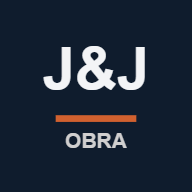
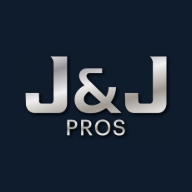
Add files via upload

Changed region(s): [[0.125, 0.2188, 0.875, 0.7812]]

diff --git a/index.html b/index.html
@@ -3,25 +3,25 @@
 <head>
 <meta charset="utf-8">
 <meta name="viewport" content="width=device-width,initial-scale=1,viewport-fit=cover">
-<title>J&amp;J Obra</title>
+<title>J&amp;J Pros</title>
 <link rel="manifest" href="manifest.webmanifest">
 <link rel="apple-touch-icon" href="apple-touch-icon.png">
 <meta name="apple-mobile-web-app-capable" content="yes">
 <meta name="mobile-web-app-capable" content="yes">
 <meta name="apple-mobile-web-app-status-bar-style" content="black-translucent">
-<meta name="apple-mobile-web-app-title" content="J&amp;J Obra">
+<meta name="apple-mobile-web-app-title" content="J&amp;J Pros">
 <meta name="theme-color" content="#0F1C2D">
 <style>
 :root{
   --paper:#F1F2F4;--card:#FFF;--field:#FFF;--ink:#0F1C2D;--ink-2:#46556A;--ink-3:#6B778C;--line:#DCE0E6;
   --bar:#0F1C2D;--bar-ink:#F3F4F6;--bar-sub:#9FAEC0;--steel:#D0CFCF;
-  --go:#B2431C;--go-ink:#FFF;--ok:#1C6245;--ok-bg:#E4F1EA;--warn:#8A5A00;--warn-bg:#FBF1DC;
+  --go:#0F1C2D;--go-ink:#F3F4F6;--ok:#1C6245;--ok-bg:#E4F1EA;--warn:#8A5A00;--warn-bg:#FBF1DC;
   --sans:-apple-system,BlinkMacSystemFont,"SF Pro Text","Segoe UI",Roboto,sans-serif;
   color-scheme:light;
 }
 @media (prefers-color-scheme:dark){:root{
   --paper:#0A121B;--card:#152230;--field:#0E1A25;--ink:#E9EEF4;--ink-2:#A6B3C3;--ink-3:#8593A2;--line:#263543;
-  --bar:#060D15;--bar-sub:#95A4B6;--go:#D1612F;--go-ink:#120803;--ok:#55B88A;--ok-bg:#12271F;--warn:#E7B45A;--warn-bg:#2A2010;
+  --bar:#0F1C2D;--bar-sub:#95A4B6;--go:#D0CFCF;--go-ink:#0F1C2D;--ok:#55B88A;--ok-bg:#12271F;--warn:#E7B45A;--warn-bg:#2A2010;
   color-scheme:dark;
 }}
 *{box-sizing:border-box}
@@ -34,13 +34,14 @@ body{background:var(--paper);color:var(--ink);font-family:var(--sans);font-size:
 .top{display:flex;align-items:center;justify-content:space-between;gap:1rem}
 .brand{font-weight:800;font-size:1.35rem;letter-spacing:.08em;color:var(--bar-ink);margin:0;line-height:1}
 .brand span{color:var(--steel)}
+.logo{display:flex;align-items:center;gap:.75rem}.logo img{height:43px;width:auto;display:block}.logo .sub{margin:0}
 .sub{font-size:.8rem;letter-spacing:.06em;color:var(--bar-sub);margin:.25rem 0 0}
 .lang{display:flex;border:1px solid rgba(208,207,207,.35);border-radius:4px;overflow:hidden}
 .lang button{background:none;border:0;color:var(--bar-sub);font:700 .9rem var(--sans);padding:.45rem .7rem;min-height:36px}
 .lang button[aria-pressed="true"]{background:var(--steel);color:#0F1C2D}
 .tabs{display:flex;margin-top:.7rem;border-top:1px solid rgba(208,207,207,.2)}
 .tab{flex:1;background:none;border:0;border-bottom:3px solid transparent;color:var(--bar-sub);font:700 1rem var(--sans);padding:.8rem .2rem .6rem}
-.tab[aria-selected="true"]{color:var(--bar-ink);border-bottom-color:var(--go)}
+.tab[aria-selected="true"]{color:var(--bar-ink);border-bottom-color:var(--steel)}
 .wrap{padding-bottom:calc(5rem + env(safe-area-inset-bottom,0px))}
 .sync{display:flex;align-items:center;gap:.5rem;margin-top:.9rem;padding:.55rem .75rem;border-radius:4px;font-size:.92rem;font-weight:600;background:var(--ok-bg);color:var(--ok)}
 .sync.wait{background:var(--warn-bg);color:var(--warn)}
@@ -101,7 +102,7 @@ textarea{min-height:64px;resize:vertical}
 <body>
 <div class="bar"><div class="bar-in">
   <div class="top">
-    <div><p class="brand">J&amp;J <span>PROS</span></p><p class="sub" id="x-sub"></p></div>
+    <div class="logo"><img src="logo.webp" alt="J&amp;J Pros" width="74" height="43"><p class="sub" id="x-sub"></p></div>
     <div class="lang" role="group" aria-label="Language">
       <button type="button" id="lang-es" aria-pressed="false">ES</button>
       <button type="button" id="lang-en" aria-pressed="false">EN</button>

diff --git a/sw.js b/sw.js
@@ -1,5 +1,5 @@
-const CACHE = "jj-obra-v4";
-const SHELL = ["./", "./index.html", "./manifest.webmanifest", "./icon-192.png", "./icon-512.png", "./apple-touch-icon.png"];
+const CACHE = "jj-obra-v5";
+const SHELL = ["./", "./index.html", "./manifest.webmanifest", "./icon-192.png", "./icon-512.png", "./apple-touch-icon.png", "./logo.webp"];
 
 self.addEventListener("install", e => {
   e.waitUntil(caches.open(CACHE).then(c => c.addAll(SHELL)).then(() => self.skipWaiting()));
